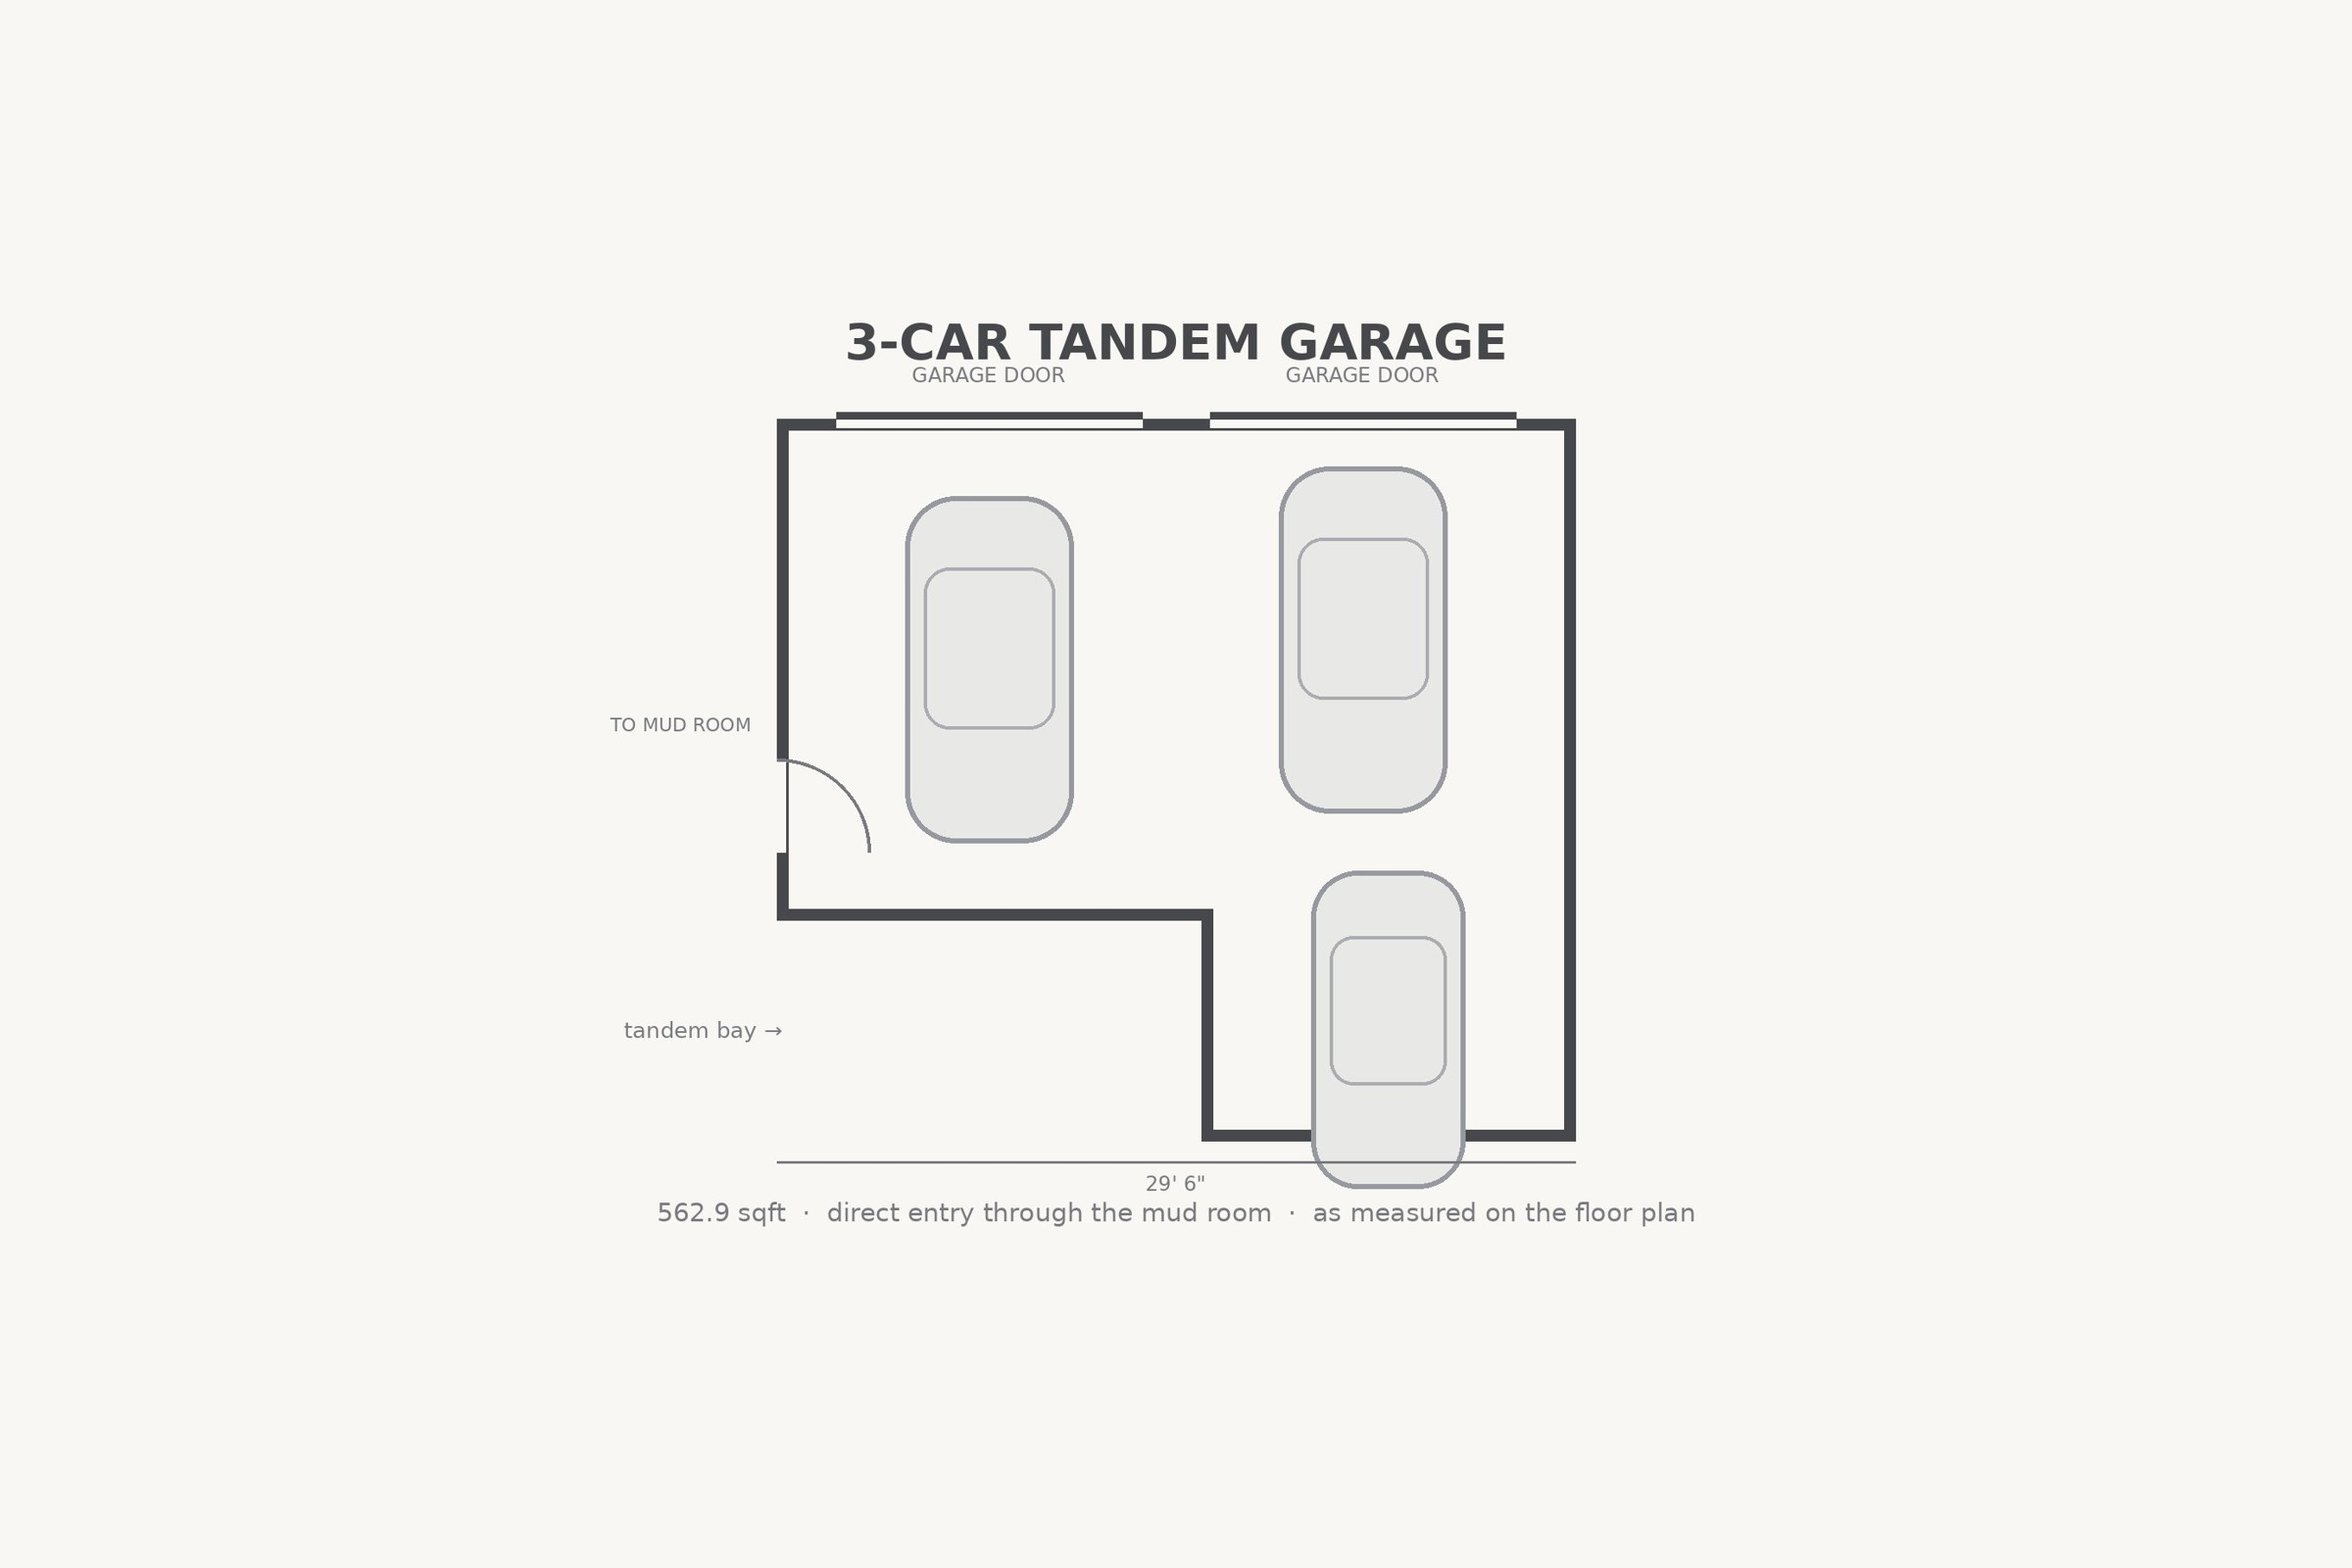
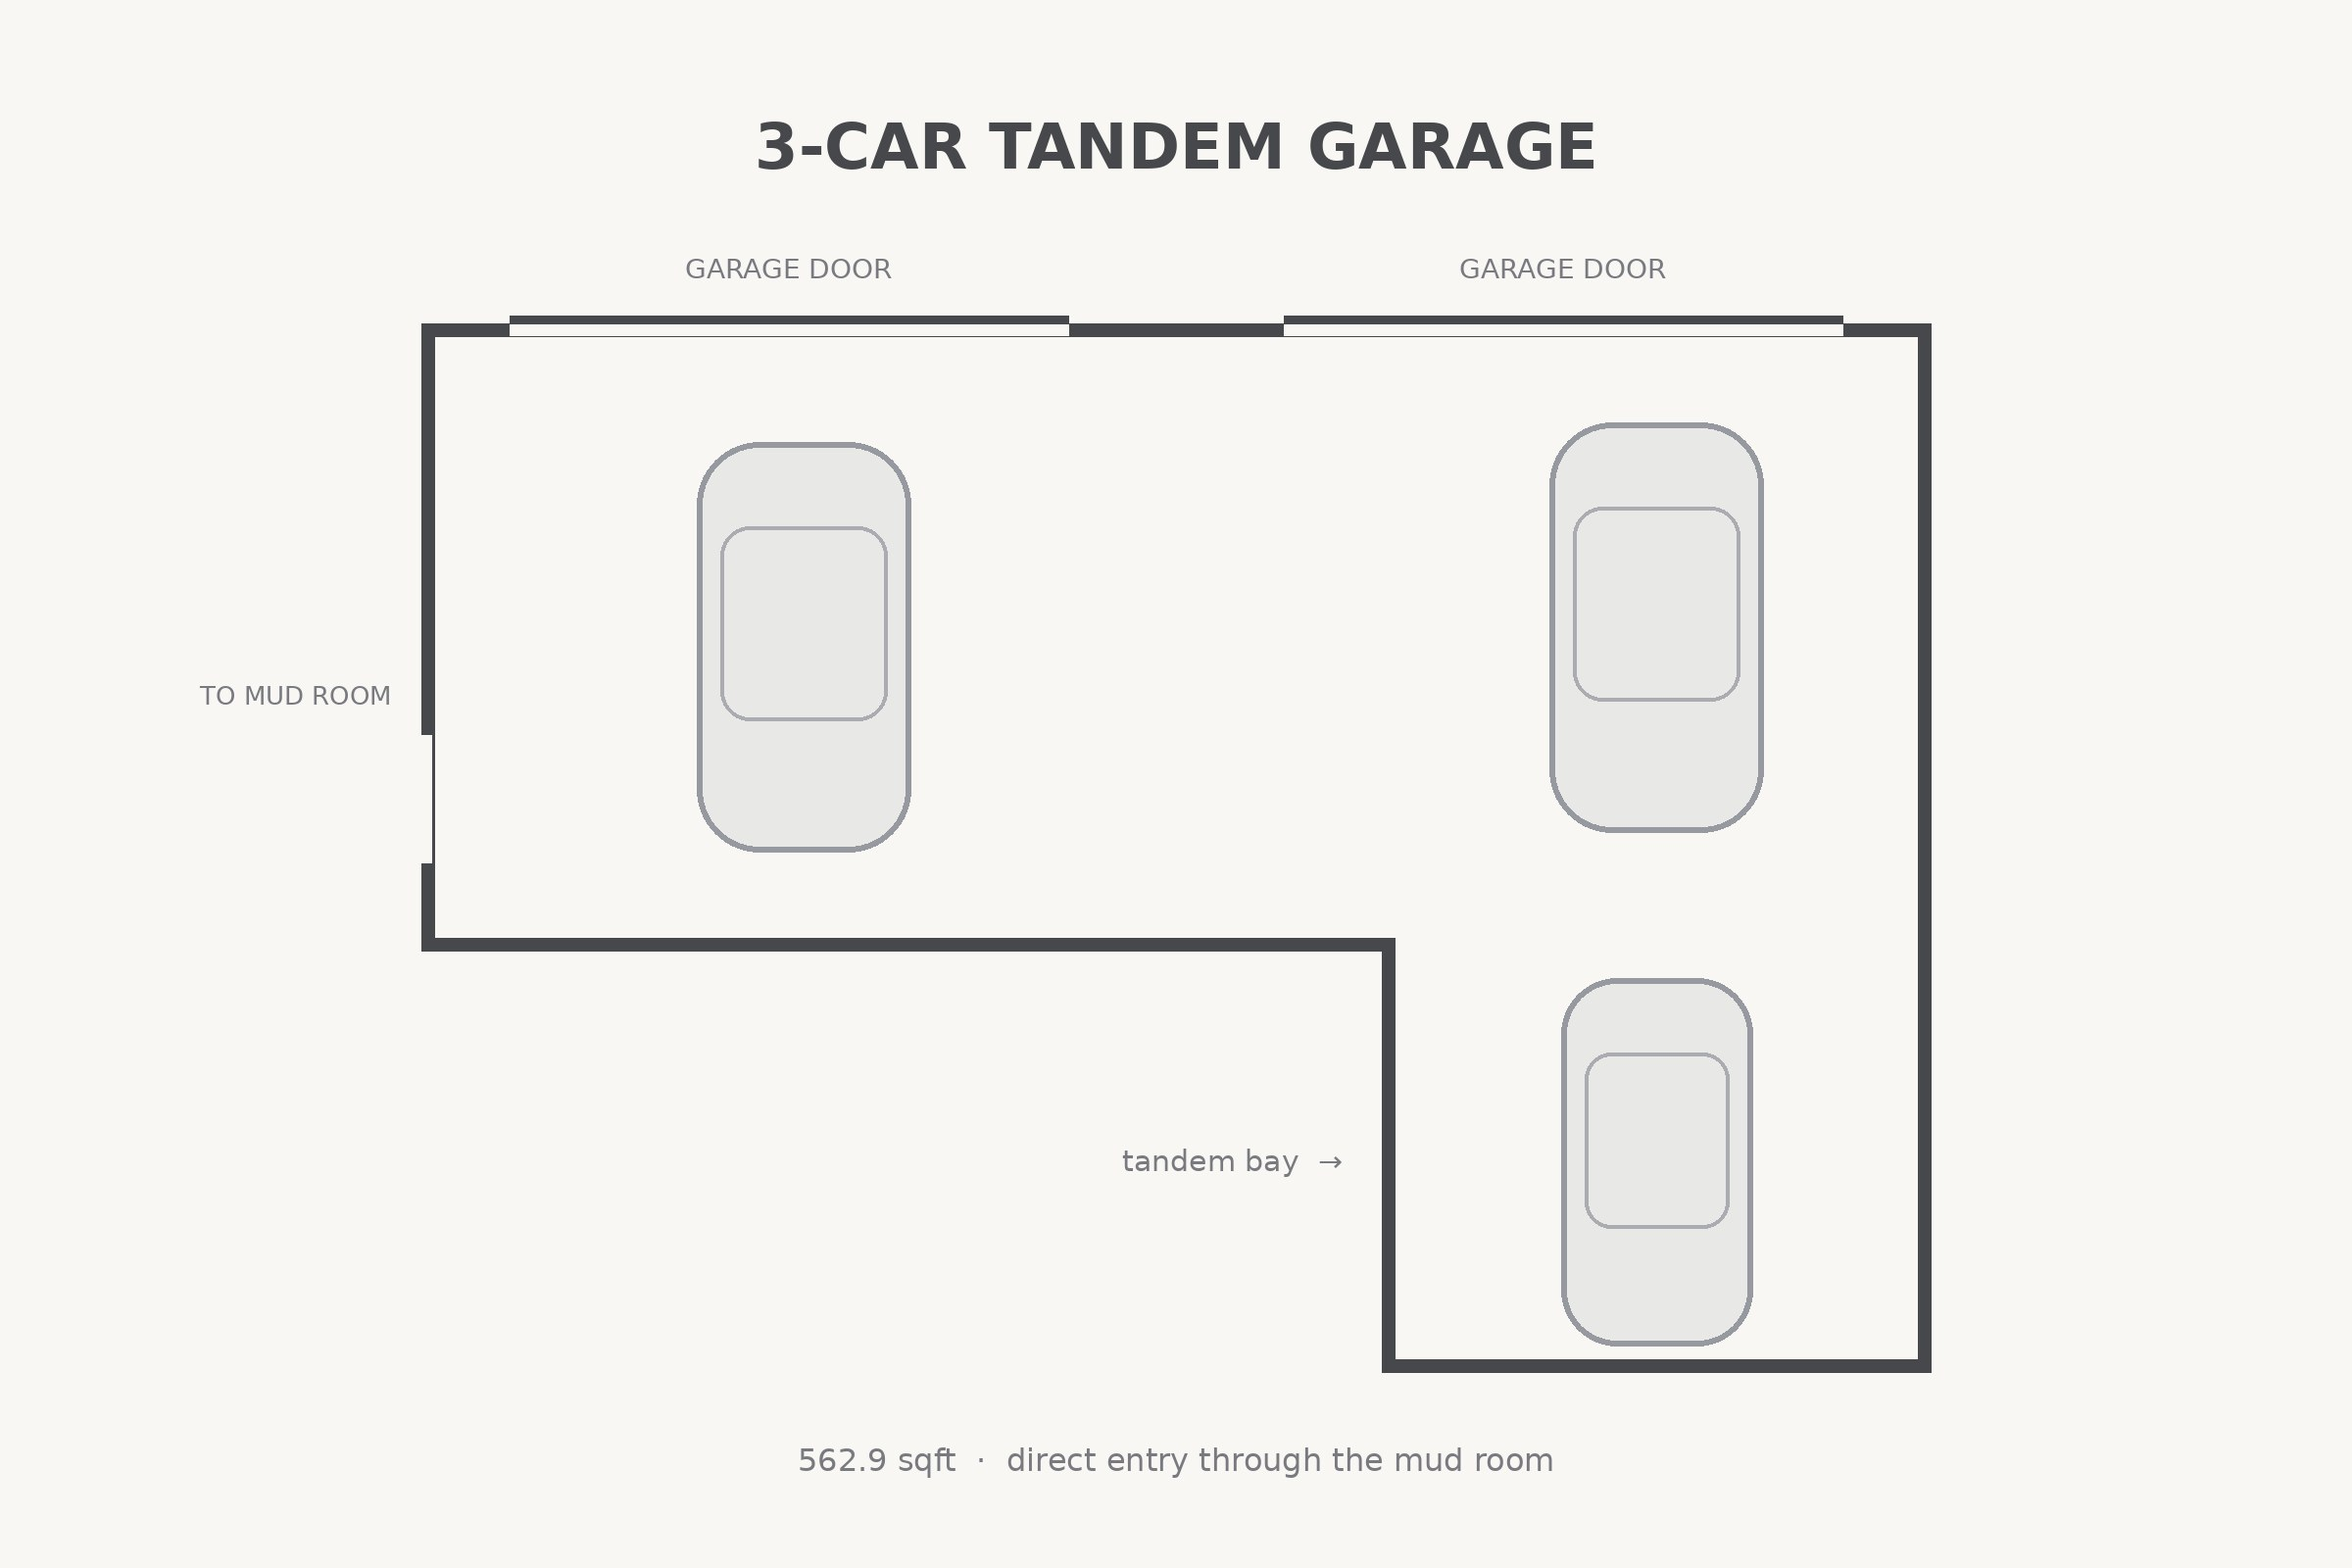
No route flicker (walk owns the line), slow gradual plan zoom on every transition (manual+auto) with walk-then-enter, tandem car contained in garage drawing

diff --git a/dev/index.html b/dev/index.html
@@ -672,6 +672,7 @@ function buildPlan2D(host, big){
 }
 function updRoute(){
   if(typeof TOURSEQ==='undefined') return;
+  if(window.__walking) return;   // the walk animation owns the route line right now - no competing redraws
   if(!window.__seqPts){
     // the drawn route follows the ACTUAL walk (incl. the hallway pass-throughs), not straight lines through walls
     const pts=[];
@@ -1093,7 +1094,7 @@ function planWalk(nodes, done){
   const myWalk=(window.__wkC=(window.__wkC||0)+1);
   window.__walking=true;
   const wasHidden=plan.classList.contains('hide'); if(wasHidden) plan.classList.remove('hide');
-  if(!noFocus) plan.classList.add('focus');
+  if(!noFocus){ plan.classList.add('slow'); plan.classList.add('focus'); }
   const pin=nid=>{ const a=(typeof AVALIAS!=='undefined'&&AVALIAS[nid])||nid; return (PLAN2D.rooms||[]).find(r=>r.node===a); };
   const stops=[]; const c=pin(curNode); if(c) stops.push(c);
   nodes.forEach(n=>{ const r=pin(n); if(r && !(stops.length&&stops[stops.length-1].x===r.x&&stops[stops.length-1].y===r.y)) stops.push(r); });
@@ -1129,7 +1130,7 @@ function planWalk(nodes, done){
     else{
       avs.forEach(a2=>a2.classList.remove('fast'));
       window.__walking=false;
-      window.__pfT=setTimeout(()=>{ plan.classList.remove('focus'); if(wasHidden) setTimeout(()=>plan.classList.add('hide'),1300); },450);
+      window.__pfT=setTimeout(()=>{ plan.classList.remove('focus'); setTimeout(()=>plan.classList.remove('slow'),3000); if(wasHidden) setTimeout(()=>plan.classList.add('hide'),1300); },450);
       done();
     }
   }
@@ -1150,14 +1151,15 @@ function findRoute(a,b){
 }
 function manualWalk(target, zoom){
   if(timer || idx[target]==null){ go(idx[target]); return; }
+  if(window.__walking && window.__walkTarget===target) return;   // already walking there
   const route=findRoute(curNode, target);
   if(route && route.length>1){
+    window.__walkTarget=target;
     const plan=document.getElementById('plan');
-    if(zoom==='slow'){ plan.classList.add('slow'); clearTimeout(window.__slowT); window.__slowT=setTimeout(()=>plan.classList.remove('slow'), 8000); }
-    else window.__noFocus=true;
-    planWalk(route.slice(1), ()=>{});
-  }
-  go(idx[target]);
+    plan.classList.add('slow'); clearTimeout(window.__slowT); window.__slowT=setTimeout(()=>plan.classList.remove('slow'), 9000);
+    try{ const pre=new Image(); pre.src=D[idx[target]].src; }catch(e){}
+    planWalk(route.slice(1), ()=>{ window.__walkTarget=null; go(idx[target]); });   // watch him walk, then enter the room
+  } else go(idx[target]);
 }
 function tourAdvance(){
   if(!timer) return;

diff --git a/index.html b/index.html
@@ -675,6 +675,7 @@ function buildPlan2D(host, big){
 }
 function updRoute(){
   if(typeof TOURSEQ==='undefined') return;
+  if(window.__walking) return;   // the walk animation owns the route line right now - no competing redraws
   if(!window.__seqPts){
     // the drawn route follows the ACTUAL walk (incl. the hallway pass-throughs), not straight lines through walls
     const pts=[];
@@ -1094,7 +1095,7 @@ function planWalk(nodes, done){
   const myWalk=(window.__wkC=(window.__wkC||0)+1);
   window.__walking=true;
   const wasHidden=plan.classList.contains('hide'); if(wasHidden) plan.classList.remove('hide');
-  if(!noFocus) plan.classList.add('focus');
+  if(!noFocus){ plan.classList.add('slow'); plan.classList.add('focus'); }
   const pin=nid=>{ const a=(typeof AVALIAS!=='undefined'&&AVALIAS[nid])||nid; return (PLAN2D.rooms||[]).find(r=>r.node===a); };
   const stops=[]; const c=pin(curNode); if(c) stops.push(c);
   nodes.forEach(n=>{ const r=pin(n); if(r && !(stops.length&&stops[stops.length-1].x===r.x&&stops[stops.length-1].y===r.y)) stops.push(r); });
@@ -1130,7 +1131,7 @@ function planWalk(nodes, done){
     else{
       avs.forEach(a2=>a2.classList.remove('fast'));
       window.__walking=false;
-      window.__pfT=setTimeout(()=>{ plan.classList.remove('focus'); if(wasHidden) setTimeout(()=>plan.classList.add('hide'),1300); },450);
+      window.__pfT=setTimeout(()=>{ plan.classList.remove('focus'); setTimeout(()=>plan.classList.remove('slow'),3000); if(wasHidden) setTimeout(()=>plan.classList.add('hide'),1300); },450);
       done();
     }
   }
@@ -1151,14 +1152,15 @@ function findRoute(a,b){
 }
 function manualWalk(target, zoom){
   if(timer || idx[target]==null){ go(idx[target]); return; }
+  if(window.__walking && window.__walkTarget===target) return;   // already walking there
   const route=findRoute(curNode, target);
   if(route && route.length>1){
+    window.__walkTarget=target;
     const plan=document.getElementById('plan');
-    if(zoom==='slow'){ plan.classList.add('slow'); clearTimeout(window.__slowT); window.__slowT=setTimeout(()=>plan.classList.remove('slow'), 8000); }
-    else window.__noFocus=true;
-    planWalk(route.slice(1), ()=>{});
-  }
-  go(idx[target]);
+    plan.classList.add('slow'); clearTimeout(window.__slowT); window.__slowT=setTimeout(()=>plan.classList.remove('slow'), 9000);
+    try{ const pre=new Image(); pre.src=D[idx[target]].src; }catch(e){}
+    planWalk(route.slice(1), ()=>{ window.__walkTarget=null; go(idx[target]); });   // watch him walk, then enter the room
+  } else go(idx[target]);
 }
 function tourAdvance(){
   if(!timer) return;

diff --git a/mls/index.html b/mls/index.html
@@ -672,6 +672,7 @@ function buildPlan2D(host, big){
 }
 function updRoute(){
   if(typeof TOURSEQ==='undefined') return;
+  if(window.__walking) return;   // the walk animation owns the route line right now - no competing redraws
   if(!window.__seqPts){
     // the drawn route follows the ACTUAL walk (incl. the hallway pass-throughs), not straight lines through walls
     const pts=[];
@@ -1093,7 +1094,7 @@ function planWalk(nodes, done){
   const myWalk=(window.__wkC=(window.__wkC||0)+1);
   window.__walking=true;
   const wasHidden=plan.classList.contains('hide'); if(wasHidden) plan.classList.remove('hide');
-  if(!noFocus) plan.classList.add('focus');
+  if(!noFocus){ plan.classList.add('slow'); plan.classList.add('focus'); }
   const pin=nid=>{ const a=(typeof AVALIAS!=='undefined'&&AVALIAS[nid])||nid; return (PLAN2D.rooms||[]).find(r=>r.node===a); };
   const stops=[]; const c=pin(curNode); if(c) stops.push(c);
   nodes.forEach(n=>{ const r=pin(n); if(r && !(stops.length&&stops[stops.length-1].x===r.x&&stops[stops.length-1].y===r.y)) stops.push(r); });
@@ -1129,7 +1130,7 @@ function planWalk(nodes, done){
     else{
       avs.forEach(a2=>a2.classList.remove('fast'));
       window.__walking=false;
-      window.__pfT=setTimeout(()=>{ plan.classList.remove('focus'); if(wasHidden) setTimeout(()=>plan.classList.add('hide'),1300); },450);
+      window.__pfT=setTimeout(()=>{ plan.classList.remove('focus'); setTimeout(()=>plan.classList.remove('slow'),3000); if(wasHidden) setTimeout(()=>plan.classList.add('hide'),1300); },450);
       done();
     }
   }
@@ -1150,14 +1151,15 @@ function findRoute(a,b){
 }
 function manualWalk(target, zoom){
   if(timer || idx[target]==null){ go(idx[target]); return; }
+  if(window.__walking && window.__walkTarget===target) return;   // already walking there
   const route=findRoute(curNode, target);
   if(route && route.length>1){
+    window.__walkTarget=target;
     const plan=document.getElementById('plan');
-    if(zoom==='slow'){ plan.classList.add('slow'); clearTimeout(window.__slowT); window.__slowT=setTimeout(()=>plan.classList.remove('slow'), 8000); }
-    else window.__noFocus=true;
-    planWalk(route.slice(1), ()=>{});
-  }
-  go(idx[target]);
+    plan.classList.add('slow'); clearTimeout(window.__slowT); window.__slowT=setTimeout(()=>plan.classList.remove('slow'), 9000);
+    try{ const pre=new Image(); pre.src=D[idx[target]].src; }catch(e){}
+    planWalk(route.slice(1), ()=>{ window.__walkTarget=null; go(idx[target]); });   // watch him walk, then enter the room
+  } else go(idx[target]);
 }
 function tourAdvance(){
   if(!timer) return;
